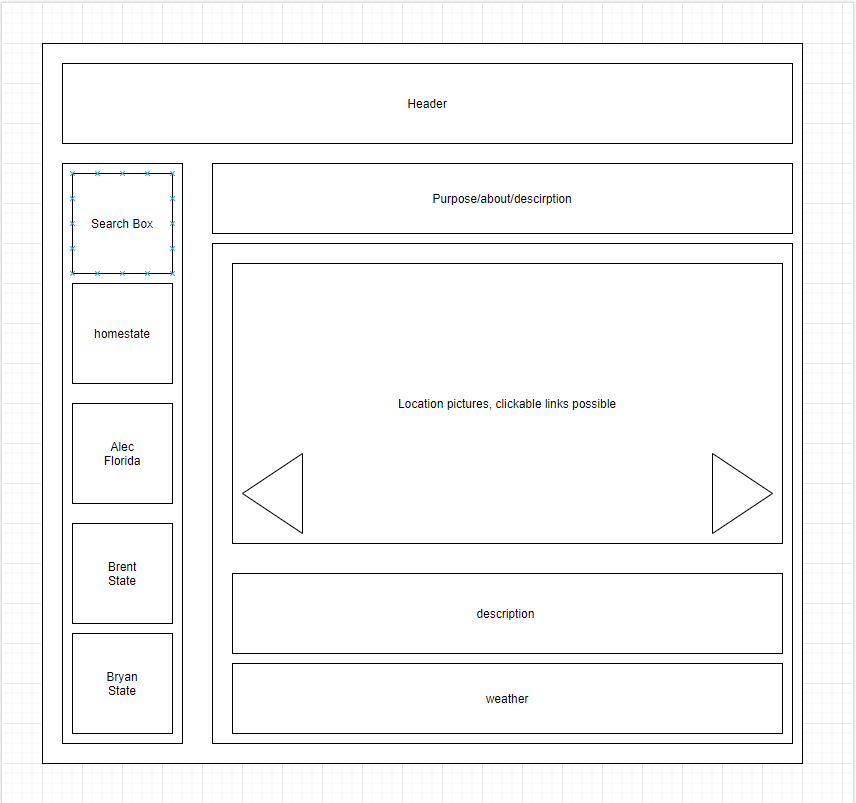
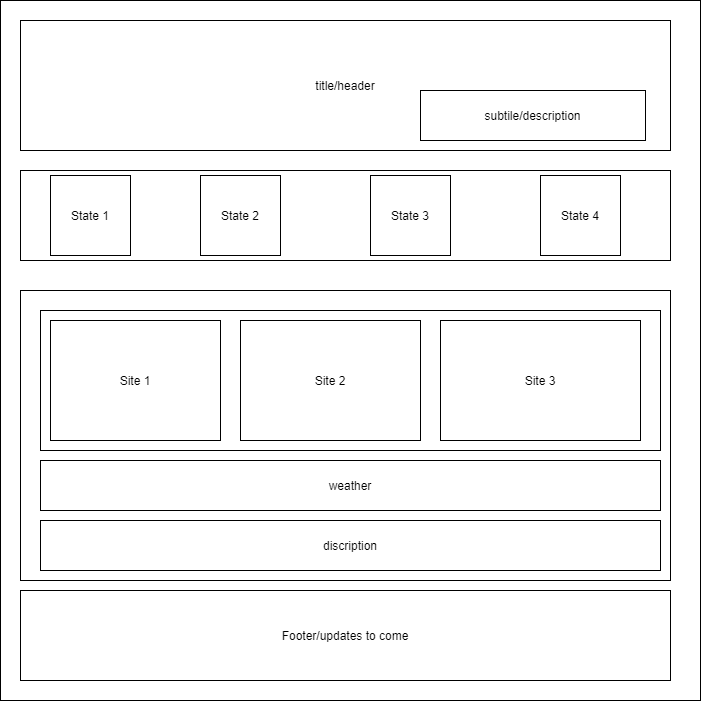
base html layout built/ could have changes

diff --git a/index.html b/index.html
@@ -1,42 +1,62 @@
 <!DOCTYPE html>
 <html lang="en">
+
 <head>
     <meta charset="UTF-8">
     <meta http-equiv="X-UA-Compatible" content="IE=edge">
     <meta name="viewport" content="width=device-width, initial-scale=1.0">
 
     <title>Hot-Spot</title>
-    <link rel="stylesheet" href="https://cdn.jsdelivr.net/npm/bulma@0.9.2/css/bulma.min.css"/>
+    <link rel="stylesheet" href="https://cdn.jsdelivr.net/npm/bulma@0.9.2/css/bulma.min.css" />
 </head>
+
 <body>
 
     <!--Header Section-->
-    <header>
-        <h1>Hot-Spot</h1>
+    <header class="title">
+        <div class="container">
+            <h1 class="title">Hot-Spot</h1>
+        </div>
+        <div class="conatiner">
+            <p class="subtitle">
+                The place to find the hottest spots for your next vacation.
+            </p>
+        </div>
     </header>
 
-    <!--Hero/Jumbotron Section-->
-    <section class="hero/jumbotron">
 
-    </section>
-
-    <!--Main Section-->
+    <!--State Lists-->
     <section class="main">
-        
+        <div class="stateList">
+            <div class="arizona">Arizona</div>
+            <div class=" florida">Florida</div>
+            <div class="montana">Montana</div>
+            <div class="hawaii">Hawaii</div>
+        </div>
     </section>
 
-    <!--Sidebar Section-->
-    <section class="sidebar">
-
+    <!--State Information Display-->
+    <section class="StateDisplay">
+        <div class="siteLocation">
+            <div class="siteOne">Click State for Results</div>
+            <div class="siteTwo">Click State for Results</div>
+            <div class="siteThird">Click State for Results</div>
+        </div>
+        <div class="siteweather">Click State to see Weather Forcast</div>
+        <div class="sitedescription">Click Site to see Site Description</div>
     </section>
 
-    <!--Weather Section-->
-    <section class="weather">
-
+    <!--To Come-->
+    <section class="futureItems">
+        <div>Future Improvemnet Listed Here</div>
     </section>
 
+    <footer>
+
+    </footer>
 
 
-    
+
 </body>
+
 </html>
